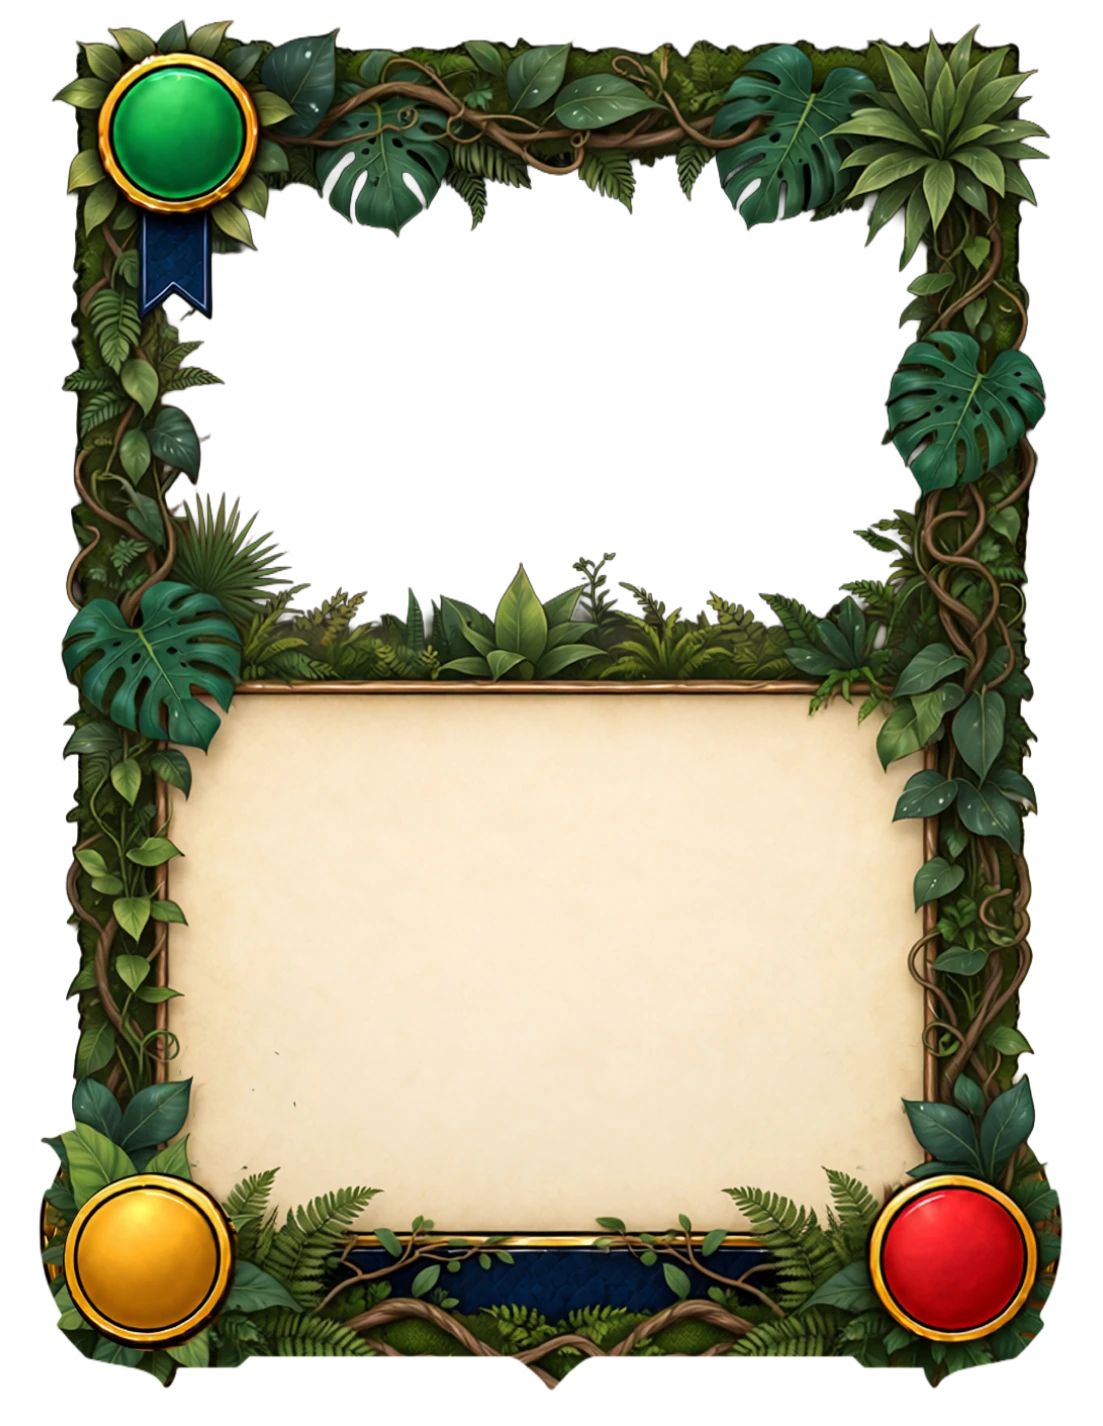
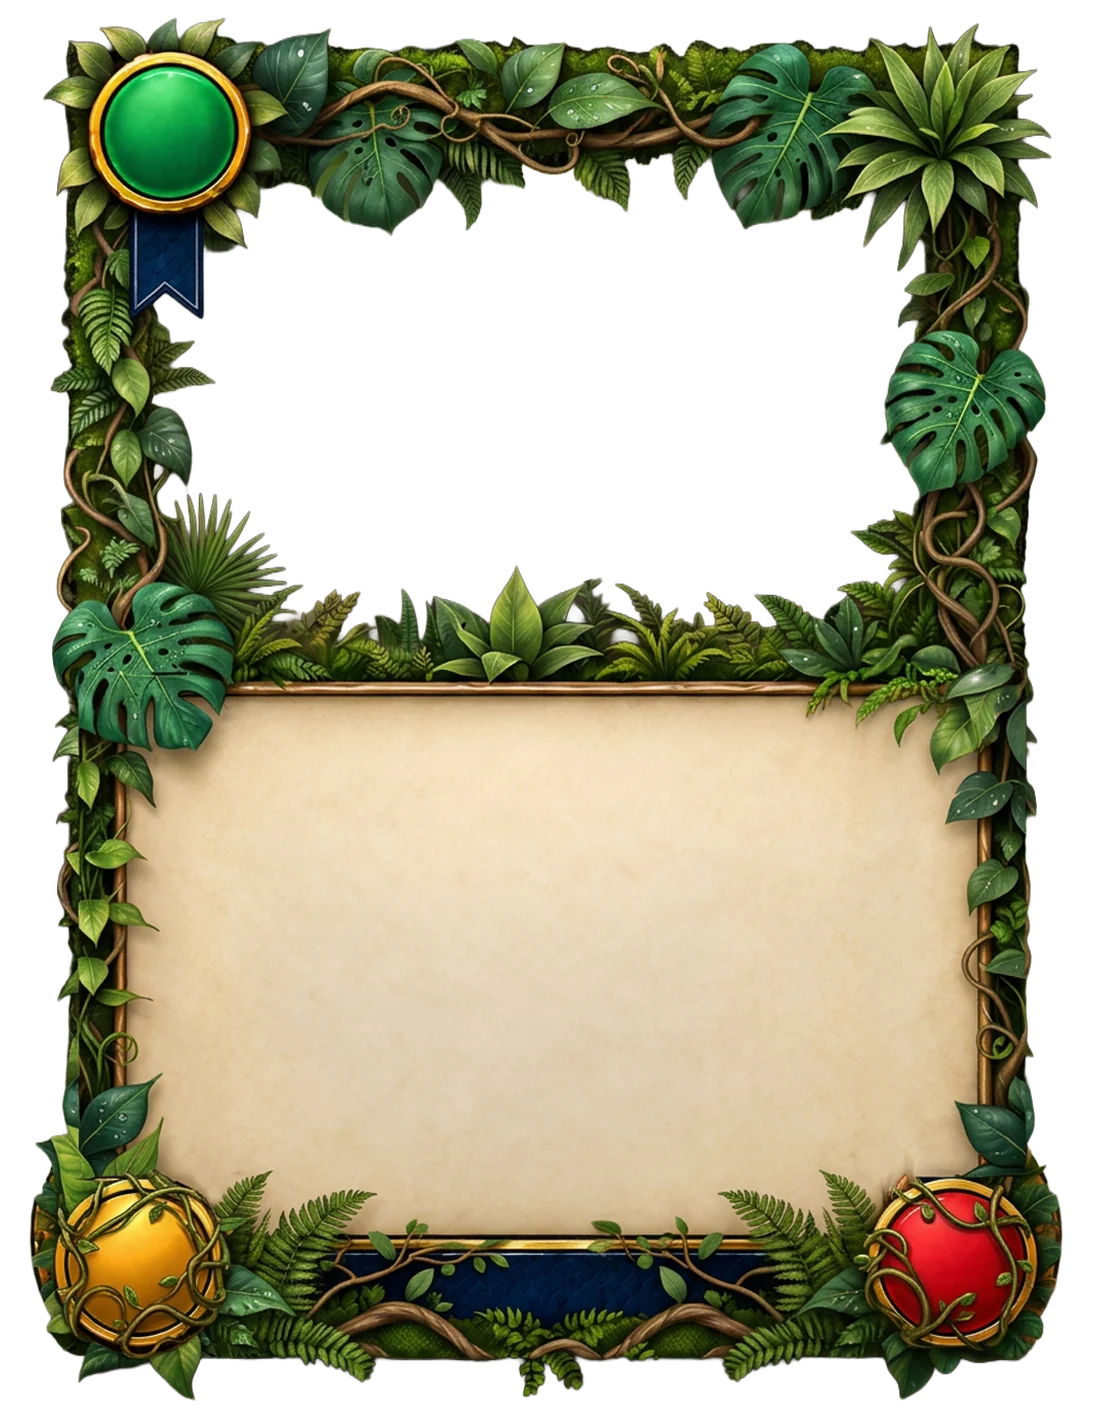
Jungle frame: the owner's new export, fitted on the shared geometry by its medallions
The window was already transparent; the three medallion centres were aligned to the previous frame's so the printed numbers keep their seats. Checked on Anansi at hand and Codex size.

Claude-Session: https://claude.ai/code/session_01EHeWjEBRGdVJVakzroyj61

diff --git a/docs/ui-kit-maker/work-order-01-game.md b/docs/ui-kit-maker/work-order-01-game.md
@@ -7,12 +7,12 @@ video); read each item against current `main` before acting.
 
 ## From the owner, via UI Kit Maker's reply
 
-1. **Jungle finish frame.** Replace `public/art/frames/character-jungle.webp` and
-   `character-sm-jungle.webp` with the owner's new PNG (`jungle-frame-new.png`, 1047×1411, the owner
-   has it). On the way in: the game's frames are the 1047×1411 export fitted into the 1103×1426 box
-   (`docs/economy.md`), so fit it the same way as the other nine; and the new file's portrait window is
-   filled with a blurred forest photograph where every other frame is transparent, so knock the window
-   out or the portrait will not show. Check the Codex, the hand card and the small tile after.
+1. **Jungle finish frame.** Done by Master Control on 2026-09-18 (the owner handed the PNG to that
+   session): `public/art/frames/character-jungle.webp` and `character-sm-jungle.webp` replaced. The new
+   export's window was already knocked out (the forest photograph sits only in colour data under zero
+   alpha, so the reply's worry did not apply). The frame was fitted onto the shared 1103×1426 geometry
+   by aligning its three medallion centres to the previous frame's, so the printed cost, Influence and
+   Force land where they did; checked on Anansi at hand and Codex size in the running app.
 2. **Landing settings button: a speaker glyph instead of the gear** in
    `src/ui/components/SettingsMenu.tsx`. The menu holds only Music and Sound effects, so the icon should
    say sound. The match HUD copy of the same button follows (one component, one icon) unless the owner
